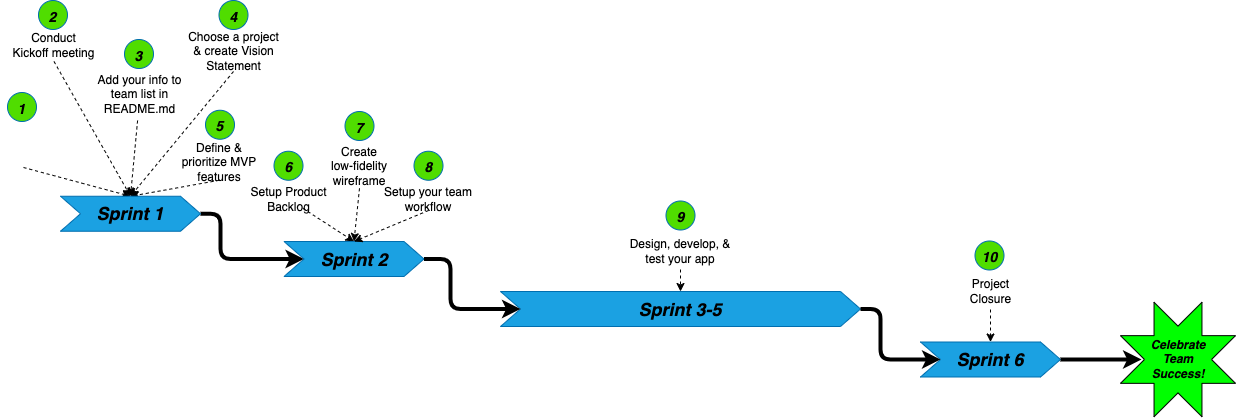
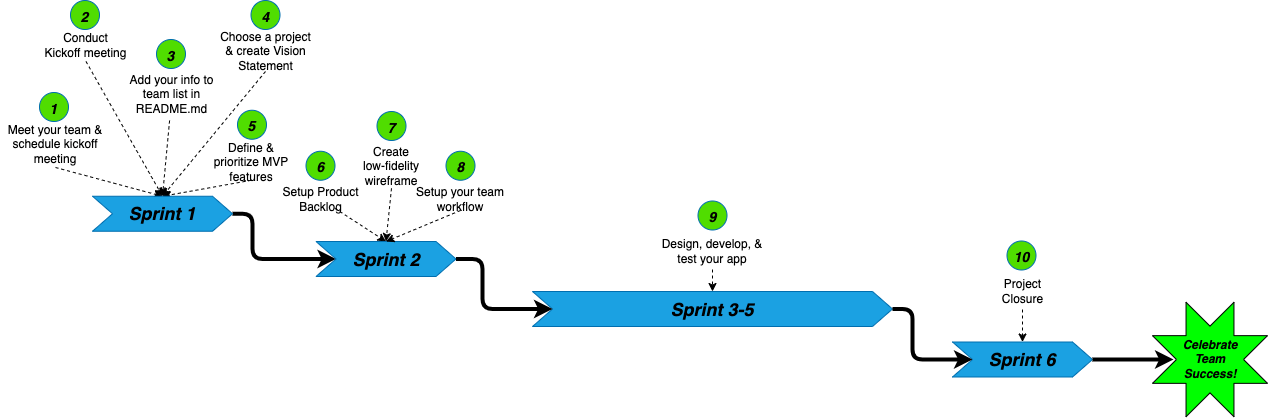
Fix: Correct Voyage How It Works diagram

diff --git a/docs/guides/voyage/voyage.md b/docs/guides/voyage/voyage.md
@@ -240,41 +240,6 @@ Voyages have specific requirements, milestones, and ***require a commitment of 8
 
 ![How it Works](./assets/Voyage_Project_How_it_Works.png)
 
-```mermaid
-flowchart TB
-  direction LR
-    STEP1(("1"))
-    STEP2(("2"))
-    STEP3(("3"))
-    STEP4(("4"))
-    STEP5(("5"))
-    STEP6(("6"))
-    STEP7(("7"))
-    STEP8(("8"))
-    STEP9(("9"))
-    STEP10(("10"))
-
-  direction LR
-    SPRINT1("Sprint 1")
-    SPRINT2("Sprint 2")
-    SPRINT1-->SPRINT2
-    SPRINT35("Sprints 3-5")
-    SPRINT2-->SPRINT35
-    SPRINT6("Sprint 6")
-    SPRINT35-->SPRINT6
-
-  STEP1-- Meet teammates & schedule Kickoff ---SPRINT1
-  STEP2-- Conduct Kickoff ---SPRINT1
-  STEP3-- Update readme.md with your info ---SPRINT1
-  STEP4-- Choose project & create Vision Stmt. ---SPRINT1
-  STEP5-- Define & prioritize features ---SPRINT1
-  STEP6-- Create Product Backlog ---SPRINT2
-  STEP7-- Create wireframe ---SPRINT2
-  STEP8-- Setup team workflow ---SPRINT2
-  STEP9-- Design, code, test, & deploy ---SPRINT35
-  STEP10-- Project Closure ---SPRINT6
-```
-
 When your Voyage starts, you will see that we have provided your team with your own team channel in Discord. You should use this to communicate and collaborate with one another on your project. Access to this channel is restricted to your team, so it's the best place for open, frank, and respectful communication with your teammates. **_Your team must not create your own Discord server, Slack channel, etc. to communicate with each other about your project._**
 
 You will also be provided with a GitHub repo in the `chingu-voyages` 
